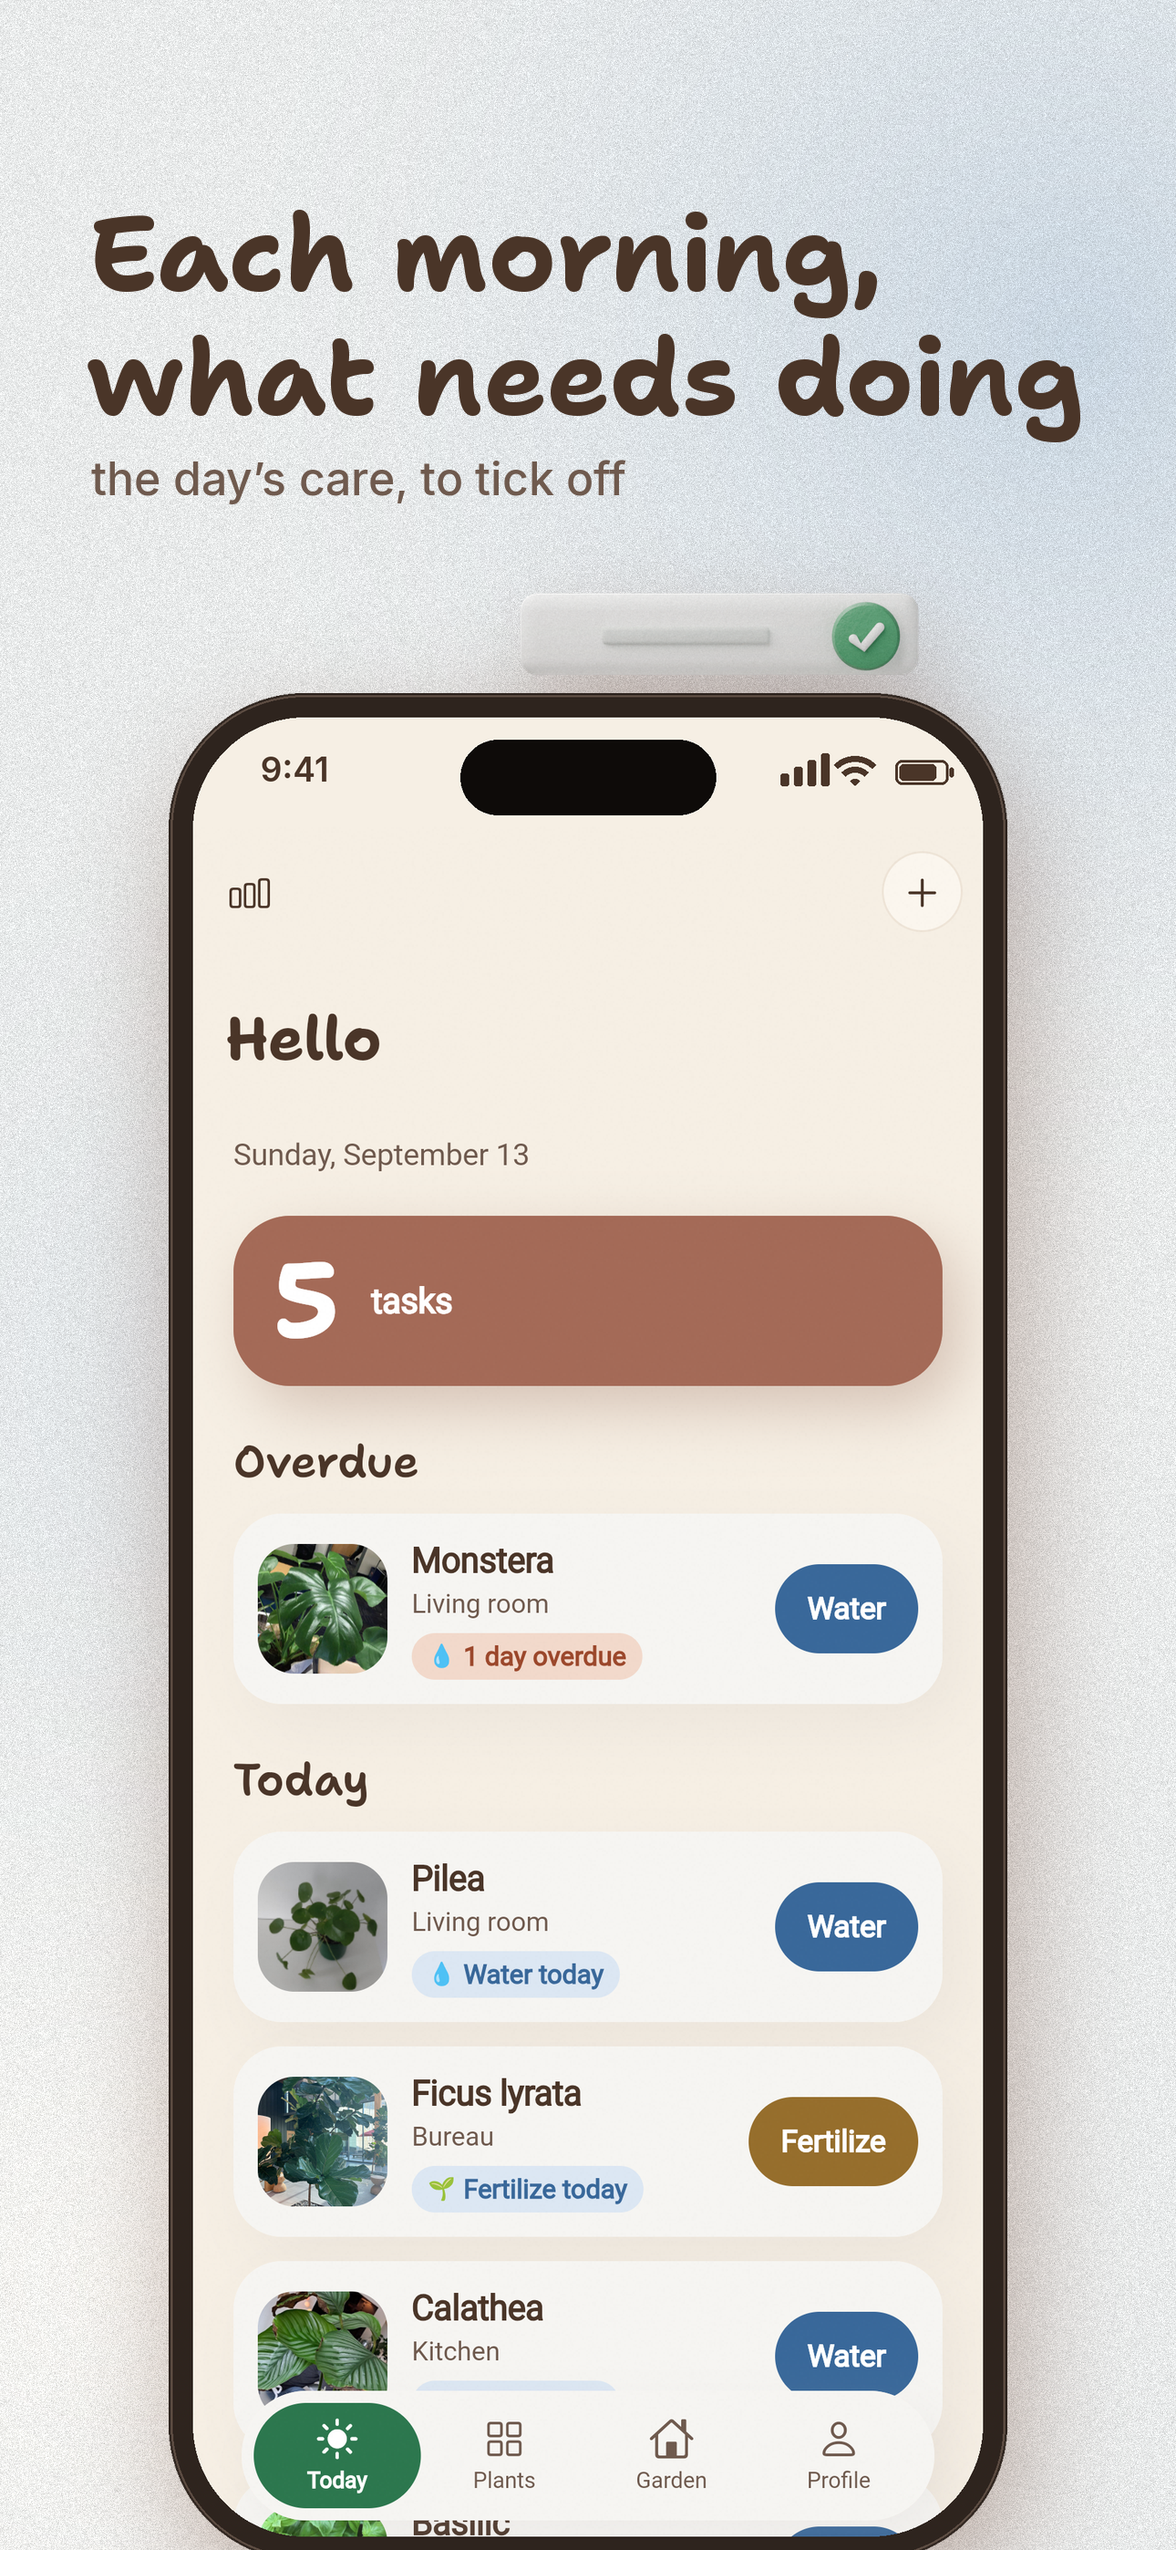
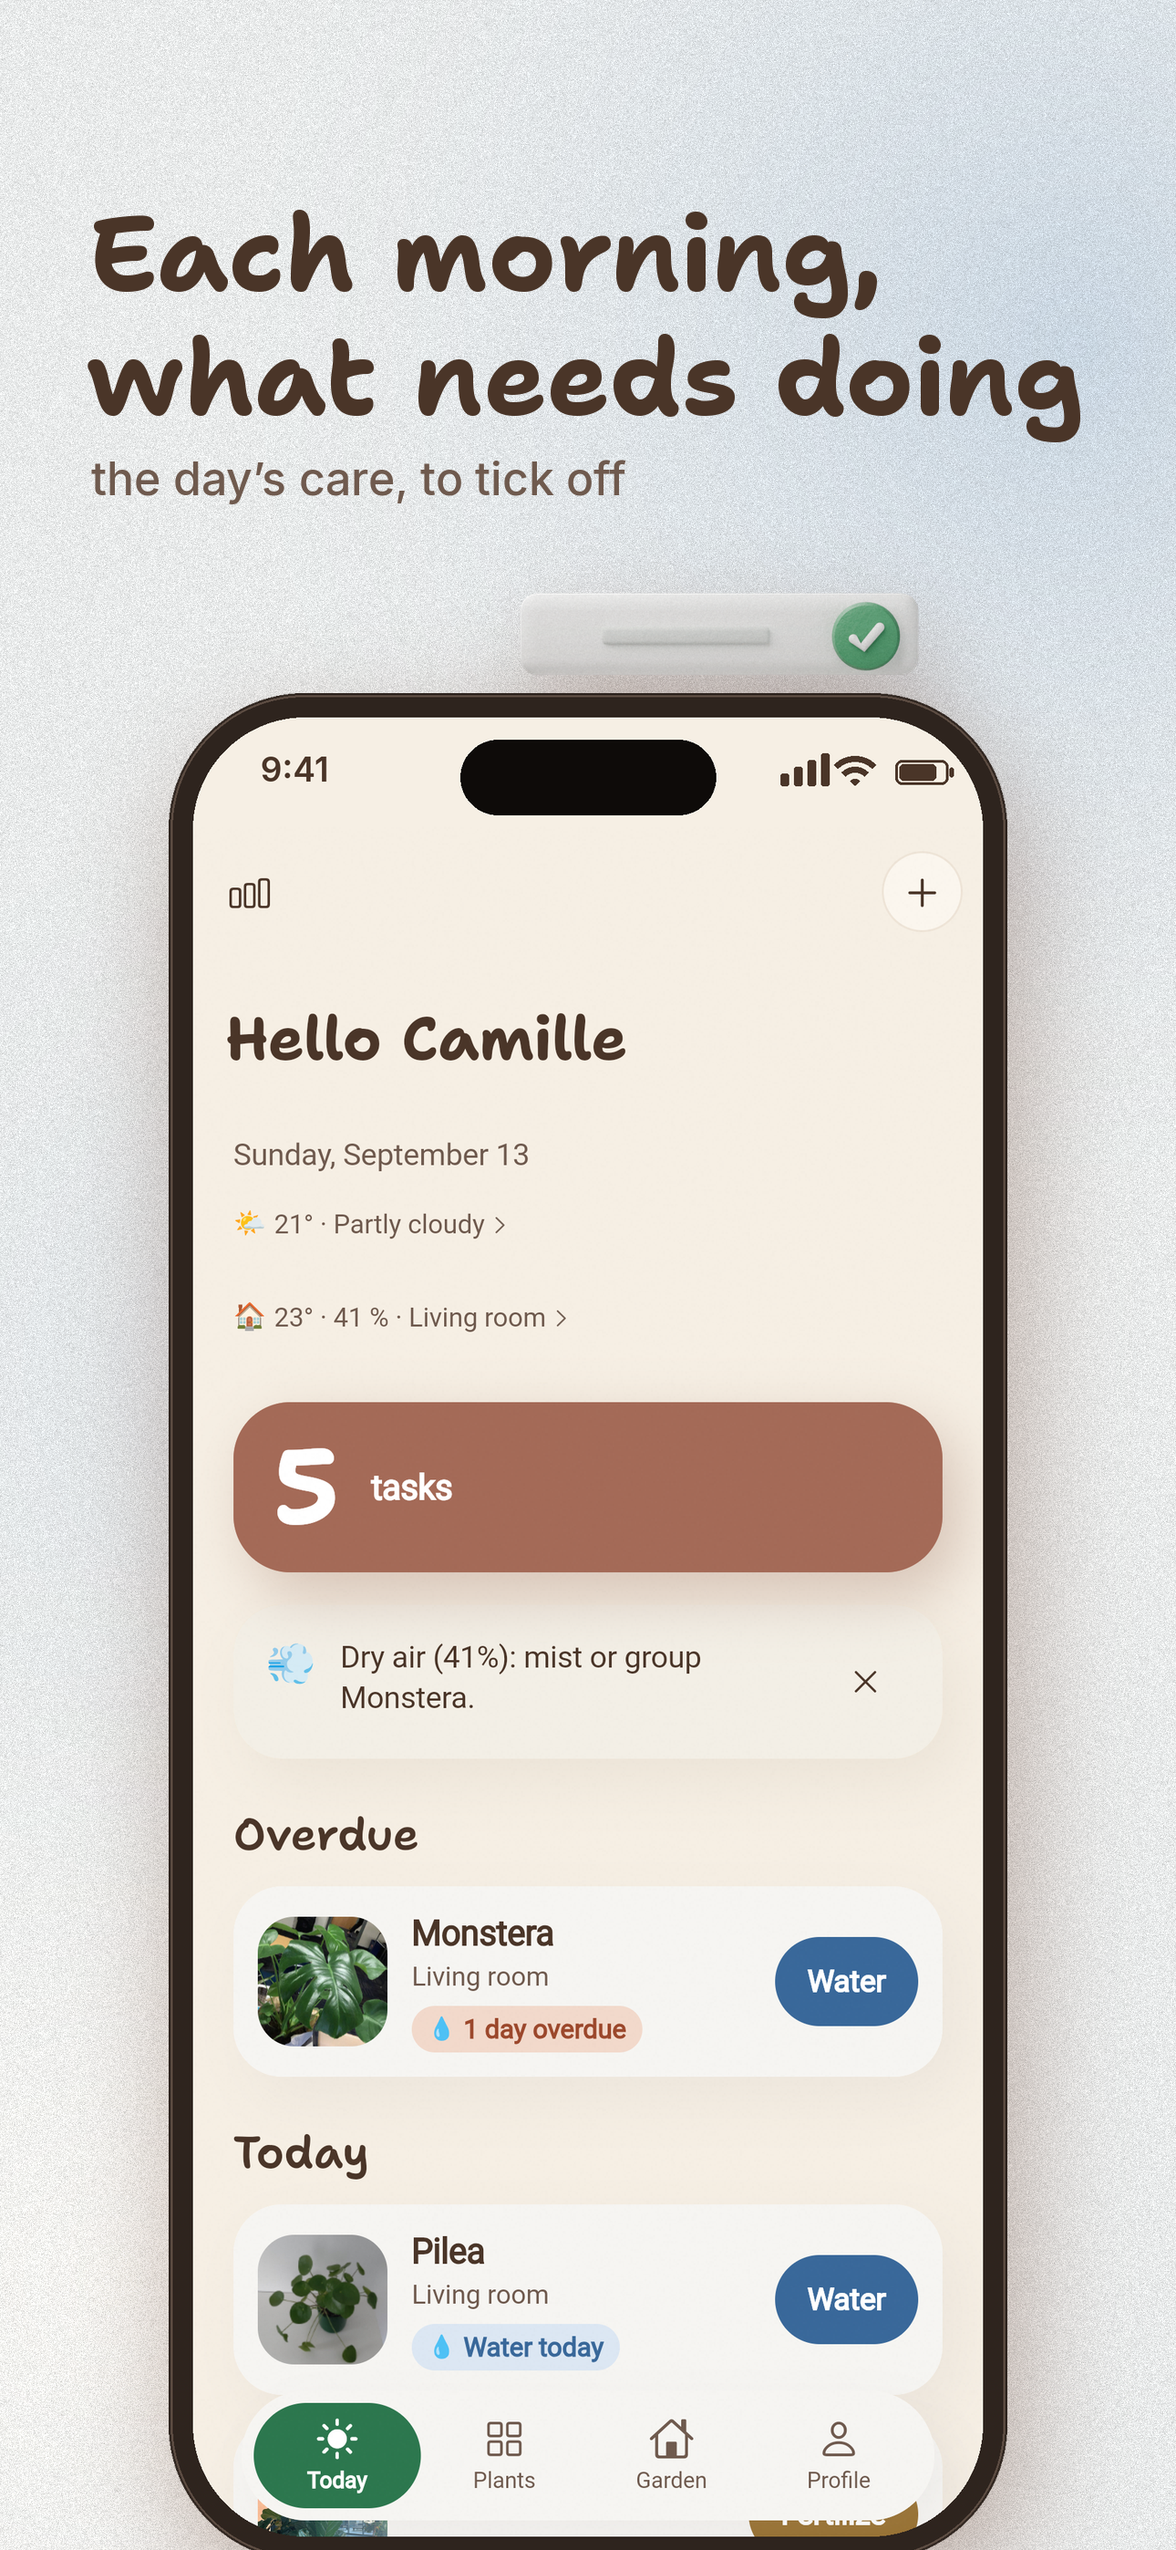
Visuels du magasin : l'accueil d'un vrai téléphone, le diagnostic en septième
L'écran Aujourd'hui ressemblait à un premier lancement : « Bonjour » sans
prénom, ni météo, ni mesure de la maison. La capture écrit maintenant les
préférences d'un téléphone déjà réglé (prénom, ville pour Open-Meteo relayée
par curl, capteur Apple Maison transmis par Raccourcis avec une mesure du
moment, onboarding passé), et la page montre la ligne météo, le climat du
salon et le conseil « Air sec ».

Le septième visuel montre le diagnostic à la place du Profil : le jeu de
démo garde au journal de la Calathea un compte rendu complet (air trop sec,
tétranyques, excès d'eau, avec les numéros de la base des 200 problèmes), et
la capture le rouvre depuis la fiche — c'est le rapport de l'app, pas un
dessin. Les textes libres du jeu de démo suivent la langue du navigateur.

Là où la molette n'entraîne presque rien, la page se fait défiler par un
glissement tactile synthétique.

Claude-Session: https://claude.ai/code/session_01NWyBLWU43KdbaGJZsmnCAH

Changed region(s): [[0.186, 0.4667, 0.8372, 0.9957], [0.6202, 0.7157, 0.8062, 0.9957], [0.3411, 0.3734, 0.5271, 0.4356]]

diff --git a/lib/core/demo/demo_seed.dart b/lib/core/demo/demo_seed.dart
@@ -10,6 +10,8 @@ import '../../data/repositories/photo_repository_impl.dart';
 import '../../data/repositories/plant_repository_impl.dart';
 import '../../data/repositories/tag_repository_impl.dart';
 import '../../data/repositories/task_repository_impl.dart';
+import '../../domain/diagnosis/diagnosis_record.dart';
+import '../../domain/diagnosis/plant_diagnoser.dart';
 import '../../domain/models/models.dart';
 import '../../domain/repositories/repositories.dart';
 
@@ -30,12 +32,15 @@ abstract final class DemoSeed {
     final calendar = DriftCalendarRepository(db, gardenId);
     final tasks = DriftTaskRepository(db, gardenId);
 
+    // Les textes libres suivent la langue du navigateur : la démo sert aussi
+    // aux visuels du magasin, en français et en anglais.
+    final en = PlatformDispatcher.instance.locale.languageCode == 'en';
     final all = await locations.watchAll().first;
     String? loc(String name) => all.where((l) => l.name.toLowerCase().startsWith(name)).firstOrNull?.id;
-    final salon = loc('salon') ?? loc('living') ?? (await locations.create(name: 'Salon', icon: '🛋')).id;
+    final salon = loc('salon') ?? loc('living') ?? (await locations.create(name: en ? 'Living room' : 'Salon', icon: '🛋')).id;
     final cuisine = loc('cuisine') ?? loc('kitchen');
     final balcon = loc('balcon') ?? loc('balcony');
-    final bureau = (await locations.create(name: 'Bureau', icon: '🖥')).id;
+    final bureau = (await locations.create(name: en ? 'Office' : 'Bureau', icon: '🖥')).id;
 
     final now = DateTime.now();
     Future<Plant> mk(String name, String? species, String? location, {int water = 7, int fert = 30, DateTime? acquired}) =>
@@ -45,8 +50,8 @@ abstract final class DemoSeed {
     final pilea = await mk('Pilea', 'Pilea peperomioides', salon, water: 5);
     final ficus = await mk('Ficus lyrata', 'Ficus lyrata', bureau, water: 8);
     final calathea = await mk('Calathea', 'Goeppertia orbifolia', cuisine, water: 4, fert: 21);
-    final olivier = await mk('Olivier', 'Olea europaea', balcon, water: 6, fert: 45);
-    final basilic = await mk('Basilic', 'Ocimum basilicum', balcon, water: 2, fert: 14);
+    final olivier = await mk(en ? 'Olive tree' : 'Olivier', 'Olea europaea', balcon, water: 6, fert: 45);
+    final basilic = await mk(en ? 'Basil' : 'Basilic', 'Ocimum basilicum', balcon, water: 2, fert: 14);
     final pothos = await mk('Pothos', 'Epipremnum aureum', bureau, water: 9);
     final hoya = await mk('Hoya', 'Hoya carnosa', salon, water: 12, fert: 60);
 
@@ -69,46 +74,97 @@ abstract final class DemoSeed {
     await actions.log(NewAction(plantId: olivier.id, typeKey: 'watering', occurredAt: now.subtract(const Duration(days: 3))));
     await actions.log(NewAction(plantId: hoya.id, typeKey: 'watering', occurredAt: now.subtract(const Duration(days: 1))));
     await actions.log(NewAction(plantId: pothos.id, typeKey: 'watering', occurredAt: now.subtract(const Duration(days: 4))));
-    await actions.log(NewAction(plantId: monstera.id, typeKey: 'note', occurredAt: now.subtract(const Duration(days: 12)), notes: 'Nouvelle feuille en train de sortir.'));
+    await actions.log(NewAction(plantId: monstera.id, typeKey: 'note', occurredAt: now.subtract(const Duration(days: 12)), notes: en ? 'New leaf on its way.' : 'Nouvelle feuille en train de sortir.'));
     await actions.log(NewAction(plantId: monstera.id, typeKey: 'repotting', occurredAt: now.subtract(const Duration(days: 40))));
     await actions.log(NewAction(plantId: monstera.id, typeKey: 'measurement', occurredAt: now.subtract(const Duration(days: 90)), metadata: {'kind': 'height', 'value': 34, 'unit': 'cm'}));
     await actions.log(NewAction(plantId: monstera.id, typeKey: 'measurement', occurredAt: now.subtract(const Duration(days: 30)), metadata: {'kind': 'height', 'value': 42, 'unit': 'cm'}));
     await actions.log(NewAction(plantId: monstera.id, typeKey: 'measurement', occurredAt: now.subtract(const Duration(days: 30)), metadata: {'kind': 'leaves', 'value': 9, 'unit': ''}));
 
-    final tropical = await tags.create('Tropicale');
-    final rare = await tags.create('Rare');
+    // Un diagnostic gardé au journal de la Calathea : le compte rendu entier,
+    // rouvrable depuis la fiche, tel que l'analyse l'aurait rendu. Les pistes
+    // portent les numéros de la base des problèmes (assets/problems/catalog.txt).
+    await actions.log(NewAction(
+      plantId: calathea.id,
+      typeKey: 'note',
+      occurredAt: now.subtract(const Duration(days: 3)),
+      notes: en ? 'Brown, dry leaf edges on several leaves.' : 'Bords bruns et secs sur plusieurs feuilles.',
+      metadata: {DiagnosisRecord.metadataKey: _demoDiagnosis(en).toJson()},
+    ));
+
+    final tropical = await tags.create(en ? 'Tropical' : 'Tropicale');
+    final rare = await tags.create(en ? 'Rare' : 'Rare');
     await tags.setPlantTags(monstera.id, [tropical.id]);
     await tags.setPlantTags(calathea.id, [tropical.id, rare.id]);
     await plants.setFavorite(monstera.id, true);
 
-    await inventory.create(category: InventoryCategory.fertilizer, name: 'Engrais plantes vertes', quantity: 420, unit: 'ml', lowThreshold: 100);
-    await inventory.create(category: InventoryCategory.soil, name: 'Terreau tropical', quantity: 7, unit: 'L', lowThreshold: 5);
+    await inventory.create(category: InventoryCategory.fertilizer, name: en ? 'Green plant fertiliser' : 'Engrais plantes vertes', quantity: 420, unit: 'ml', lowThreshold: 100);
+    await inventory.create(category: InventoryCategory.soil, name: en ? 'Tropical potting mix' : 'Terreau tropical', quantity: 7, unit: 'L', lowThreshold: 5);
     await inventory.create(category: InventoryCategory.substrate, name: 'Perlite', quantity: 2, unit: 'L', lowThreshold: 3);
-    await inventory.create(category: InventoryCategory.pot, name: 'Pots Ø15 cm', quantity: 4, unit: '');
+    await inventory.create(category: InventoryCategory.pot, name: en ? 'Ø15 cm pots' : 'Pots Ø15 cm', quantity: 4, unit: '');
 
     // Un groupe d'inventaire, avec un article étiqueté.
-    final etagere = await inventory.createGroup(label: 'Étagère du balcon', emoji: '🪟');
-    final graines = await inventory.create(category: InventoryCategory.seed, name: 'Graines de basilic', quantity: 3, unit: '', groupId: etagere.id);
+    final etagere = await inventory.createGroup(label: en ? 'Balcony shelf' : 'Étagère du balcon', emoji: '🪟');
+    final graines = await inventory.create(category: InventoryCategory.seed, name: en ? 'Basil seeds' : 'Graines de basilic', quantity: 3, unit: '', groupId: etagere.id);
     await inventory.setItemTags(graines.id, [rare.id]);
 
     // Deux événements de calendrier et leur catégorie.
-    final sorties = await calendar.createCategory(label: 'Sorties', emoji: '🛒');
-    await calendar.create(NewCalendarEntry(title: 'Marché aux plantes', startAt: now.add(const Duration(days: 3)), categoryId: sorties.id, reminderMinutes: 60));
+    final sorties = await calendar.createCategory(label: en ? 'Outings' : 'Sorties', emoji: '🛒');
+    await calendar.create(NewCalendarEntry(title: en ? 'Plant market' : 'Marché aux plantes', startAt: now.add(const Duration(days: 3)), categoryId: sorties.id, reminderMinutes: 60));
     await calendar.create(NewCalendarEntry(
-      title: 'Rempotage de printemps',
+      title: en ? 'Spring repotting' : 'Rempotage de printemps',
       startAt: now.add(const Duration(days: 9)),
       endAt: now.add(const Duration(days: 10)),
       plantId: ficus.id,
-      notes: 'Prévoir du terreau et un pot plus large.',
+      notes: en ? 'Get potting mix and a wider pot.' : 'Prévoir du terreau et un pot plus large.',
     ));
 
     // Une tâche libre ouverte, et une plante archivée pour les archives.
-    await tasks.create(NewTask(title: 'Commander du terreau', dueAt: now.add(const Duration(days: 1))));
-    final disparue = await mk('Fougère', 'Nephrolepis exaltata', cuisine, acquired: DateTime(now.year - 2, 5, 4));
+    await tasks.create(NewTask(title: en ? 'Order potting mix' : 'Commander du terreau', dueAt: now.add(const Duration(days: 1))));
+    final disparue = await mk(en ? 'Fern' : 'Fougère', 'Nephrolepis exaltata', cuisine, acquired: DateTime(now.year - 2, 5, 4));
     await plants.archive([disparue.id], reason: 'died');
 
     // Une routine saisonnière pour la variété.
     final hoyaSchedules = await care.watchByPlant(hoya.id).first;
     await care.upsert(hoyaSchedules.first.copyWith(strategy: CareStrategy.seasonal));
   }
+
+  /// Ce qu'une analyse dit d'une Calathea aux bords bruns : l'air sec en
+  /// tête, les tétranyques en doute, l'excès d'eau écarté.
+  static DiagnosisRecord _demoDiagnosis(bool en) => DiagnosisRecord(
+        symptoms: en ? 'Leaf edges have been browning for two weeks.' : 'Les bords des feuilles brunissent depuis deux semaines.',
+        diagnosis: Diagnosis(
+          summary: en
+              ? 'Brown, dry tips and edges on several leaves, blades curling slightly. No visible sign of pests.'
+              : "Pointes et bords bruns et secs sur plusieurs feuilles, limbe qui s'enroule légèrement. Aucune trace visible de parasites.",
+          causes: [
+            DiagnosisCause(
+              title: en ? 'Low air humidity' : 'Air trop sec',
+              problemId: '013',
+              likelihood: Likelihood.likely,
+              explanation: en
+                  ? 'Dry brown edges on old and young leaves alike are the mark of air too dry for a prayer plant, especially near a heater.'
+                  : "Des bords bruns et secs, sur les feuilles anciennes comme sur les jeunes, sont la marque d'un air trop sec pour une Marantacée, surtout près d'un radiateur.",
+              actions: en
+                  ? ['Group the plant with others, or stand the pot on a tray of damp clay pebbles', 'Move it away from radiators and draughts', 'Trim the dry parts back to healthy tissue']
+                  : ["Regrouper la plante avec d'autres, ou poser le pot sur un lit de billes d'argile humides", "L'éloigner des radiateurs et des courants d'air", 'Couper les parties sèches au ras du tissu sain'],
+            ),
+            DiagnosisCause(
+              title: en ? 'Spider mites' : 'Tétranyques',
+              problemId: '060',
+              likelihood: Likelihood.possible,
+              explanation: en
+                  ? 'Curling blades and fine speckling can announce spider mites, which thrive in dry air. No webbing visible in the photo.'
+                  : "Un limbe qui s'enroule et de fines mouchetures peuvent annoncer des tétranyques, qui prospèrent dans l'air sec. Aucune toile visible sur la photo.",
+              actions: en ? ['Check the undersides of the leaves with a magnifier', 'Shower the foliage with lukewarm water'] : ['Examiner le revers des feuilles à la loupe', "Doucher le feuillage à l'eau tiède"],
+            ),
+            DiagnosisCause(
+              title: en ? 'Waterlogging' : "Excès d'eau",
+              problemId: '002',
+              likelihood: Likelihood.unlikely,
+              explanation: en ? 'The potting mix does not look soaked and the leaves stay firm.' : "Le terreau n'a pas l'air détrempé et les feuilles restent fermes.",
+              actions: en ? ['Let the top two centimetres dry out between waterings'] : ['Laisser sécher les deux premiers centimètres entre deux arrosages'],
+            ),
+          ],
+        ),
+      );
 }

diff --git a/store/compose.py b/store/compose.py
@@ -411,7 +411,7 @@ COPY = {
         ("Une fiche d'entretien\npour chaque espèce", 'arrosage, lumière, engrais, rempotage'),
         ('Quelle est\ncette plante ?', 'une photo suffit, même sans réseau'),
         ('Lieux, calendrier,\ninventaire', 'pour un appartement ou un jardin entier'),
-        ('Tout reste sur\nvotre téléphone', 'sans compte, sans publicité'),
+        ('Un diagnostic\nsur photo', 'plus de 200 troubles, ravageurs, maladies'),
     ],
     'en': [
         ('Each morning,\nwhat needs doing', 'the day’s care, to tick off'),
@@ -420,7 +420,7 @@ COPY = {
         ('A care guide\nfor every species', 'watering, light, feeding, repotting'),
         ('What plant\nis this?', 'one photo is enough, even offline'),
         ('Rooms, calendar,\ninventory', 'for a whole flat or garden'),
-        ('Everything stays\non your phone', 'no account, no ads'),
+        ('A diagnosis\nfrom a photo', '200+ disorders, pests and diseases'),
     ],
 }
 
@@ -431,7 +431,7 @@ SCENES = [
     ('care', 'sun', 'onboarding_3.png'),
     ('add-plant', 'earth', 'collection_caoutchouc.webp'),
     ('garden-calendar', 'lavender', 'onboarding_7.png'),
-    ('profile', 'rose', 'onboarding_5.png'),
+    ('diagnosis', 'rose', 'collection_sansevieria.webp'),
 ]
 # Chaque visuel : la capture, la teinte du papier, l'objet d'argile qui dépasse.
 

diff --git a/store/README.md b/store/README.md
@@ -16,7 +16,7 @@ crème de l'app, avec son grain ; les ombres sont brunes, jamais noires.
 | 4 | Fiche d'entretien | anneau et goutte | soleil |
 | 5 | Ajout d'une plante, étape Photo, avec la feuille « Espèce » ouverte | caoutchouc en pot | terre |
 | 6 | Jardin, calendrier | la maison | lavande |
-| 7 | Profil (« Vos données restent sur ce téléphone. ») | carte, cadenas, nuage | rose |
+| 7 | Diagnostic gardé au journal de la Calathea, rouvert en entier | sansevieria en pot | rose |
 
 Le cinquième montre l'identification sur l'appareil. La feuille « Espèce »
 est redessinée par `compose.py` dans le téléphone, sur la page assombrie,
@@ -31,9 +31,21 @@ dans `IDENT_RESULTS`, régénérer.
 Sur la page d'une plante, la photo continue sous la barre d'état dessinée
 (en miroir, floue, assombrie), et les icônes passent en blanc.
 
+Le septième montre le compte rendu d'un diagnostic tel que l'app le rend :
+le jeu de démo en garde un au journal de la Calathea (air trop sec, tétranyques,
+excès d'eau — des numéros de `assets/problems/catalog.txt`), et la capture
+le rouvre depuis la fiche. Le service de diagnostic lui-même n'est pas
+configuré sur le build web ; le rapport, lui, est le vrai.
+
 Le jeu de démo (`?demo`) est réglé pour ces visuels : un seul soin en
-retard, d'un jour, le reste dû aujourd'hui. L'invite aux rappels est marquée
-déjà vue par `capture.mjs` avant le chargement.
+retard, d'un jour, le reste dû aujourd'hui ; ses textes libres suivent la
+langue du navigateur. Avant le chargement, `capture.mjs` écrit les
+préférences d'un téléphone déjà réglé : onboarding passé, un prénom pour
+« Bonjour », une ville pour la météo (Open-Meteo, relayée par `curl` comme
+les polices), un capteur Apple Maison transmis par Raccourcis avec une
+mesure du moment, et l'invite aux rappels déjà vue. Là où la molette
+n'entraîne presque rien, la page se fait défiler par un glissement tactile
+synthétique.
 
 `fr/` et `en/` contiennent les fichiers prêts à déposer dans App Store Connect ;
 les textes de la fiche (titre, sous-titre, mots-clés) sont dans [listing.md](listing.md).
